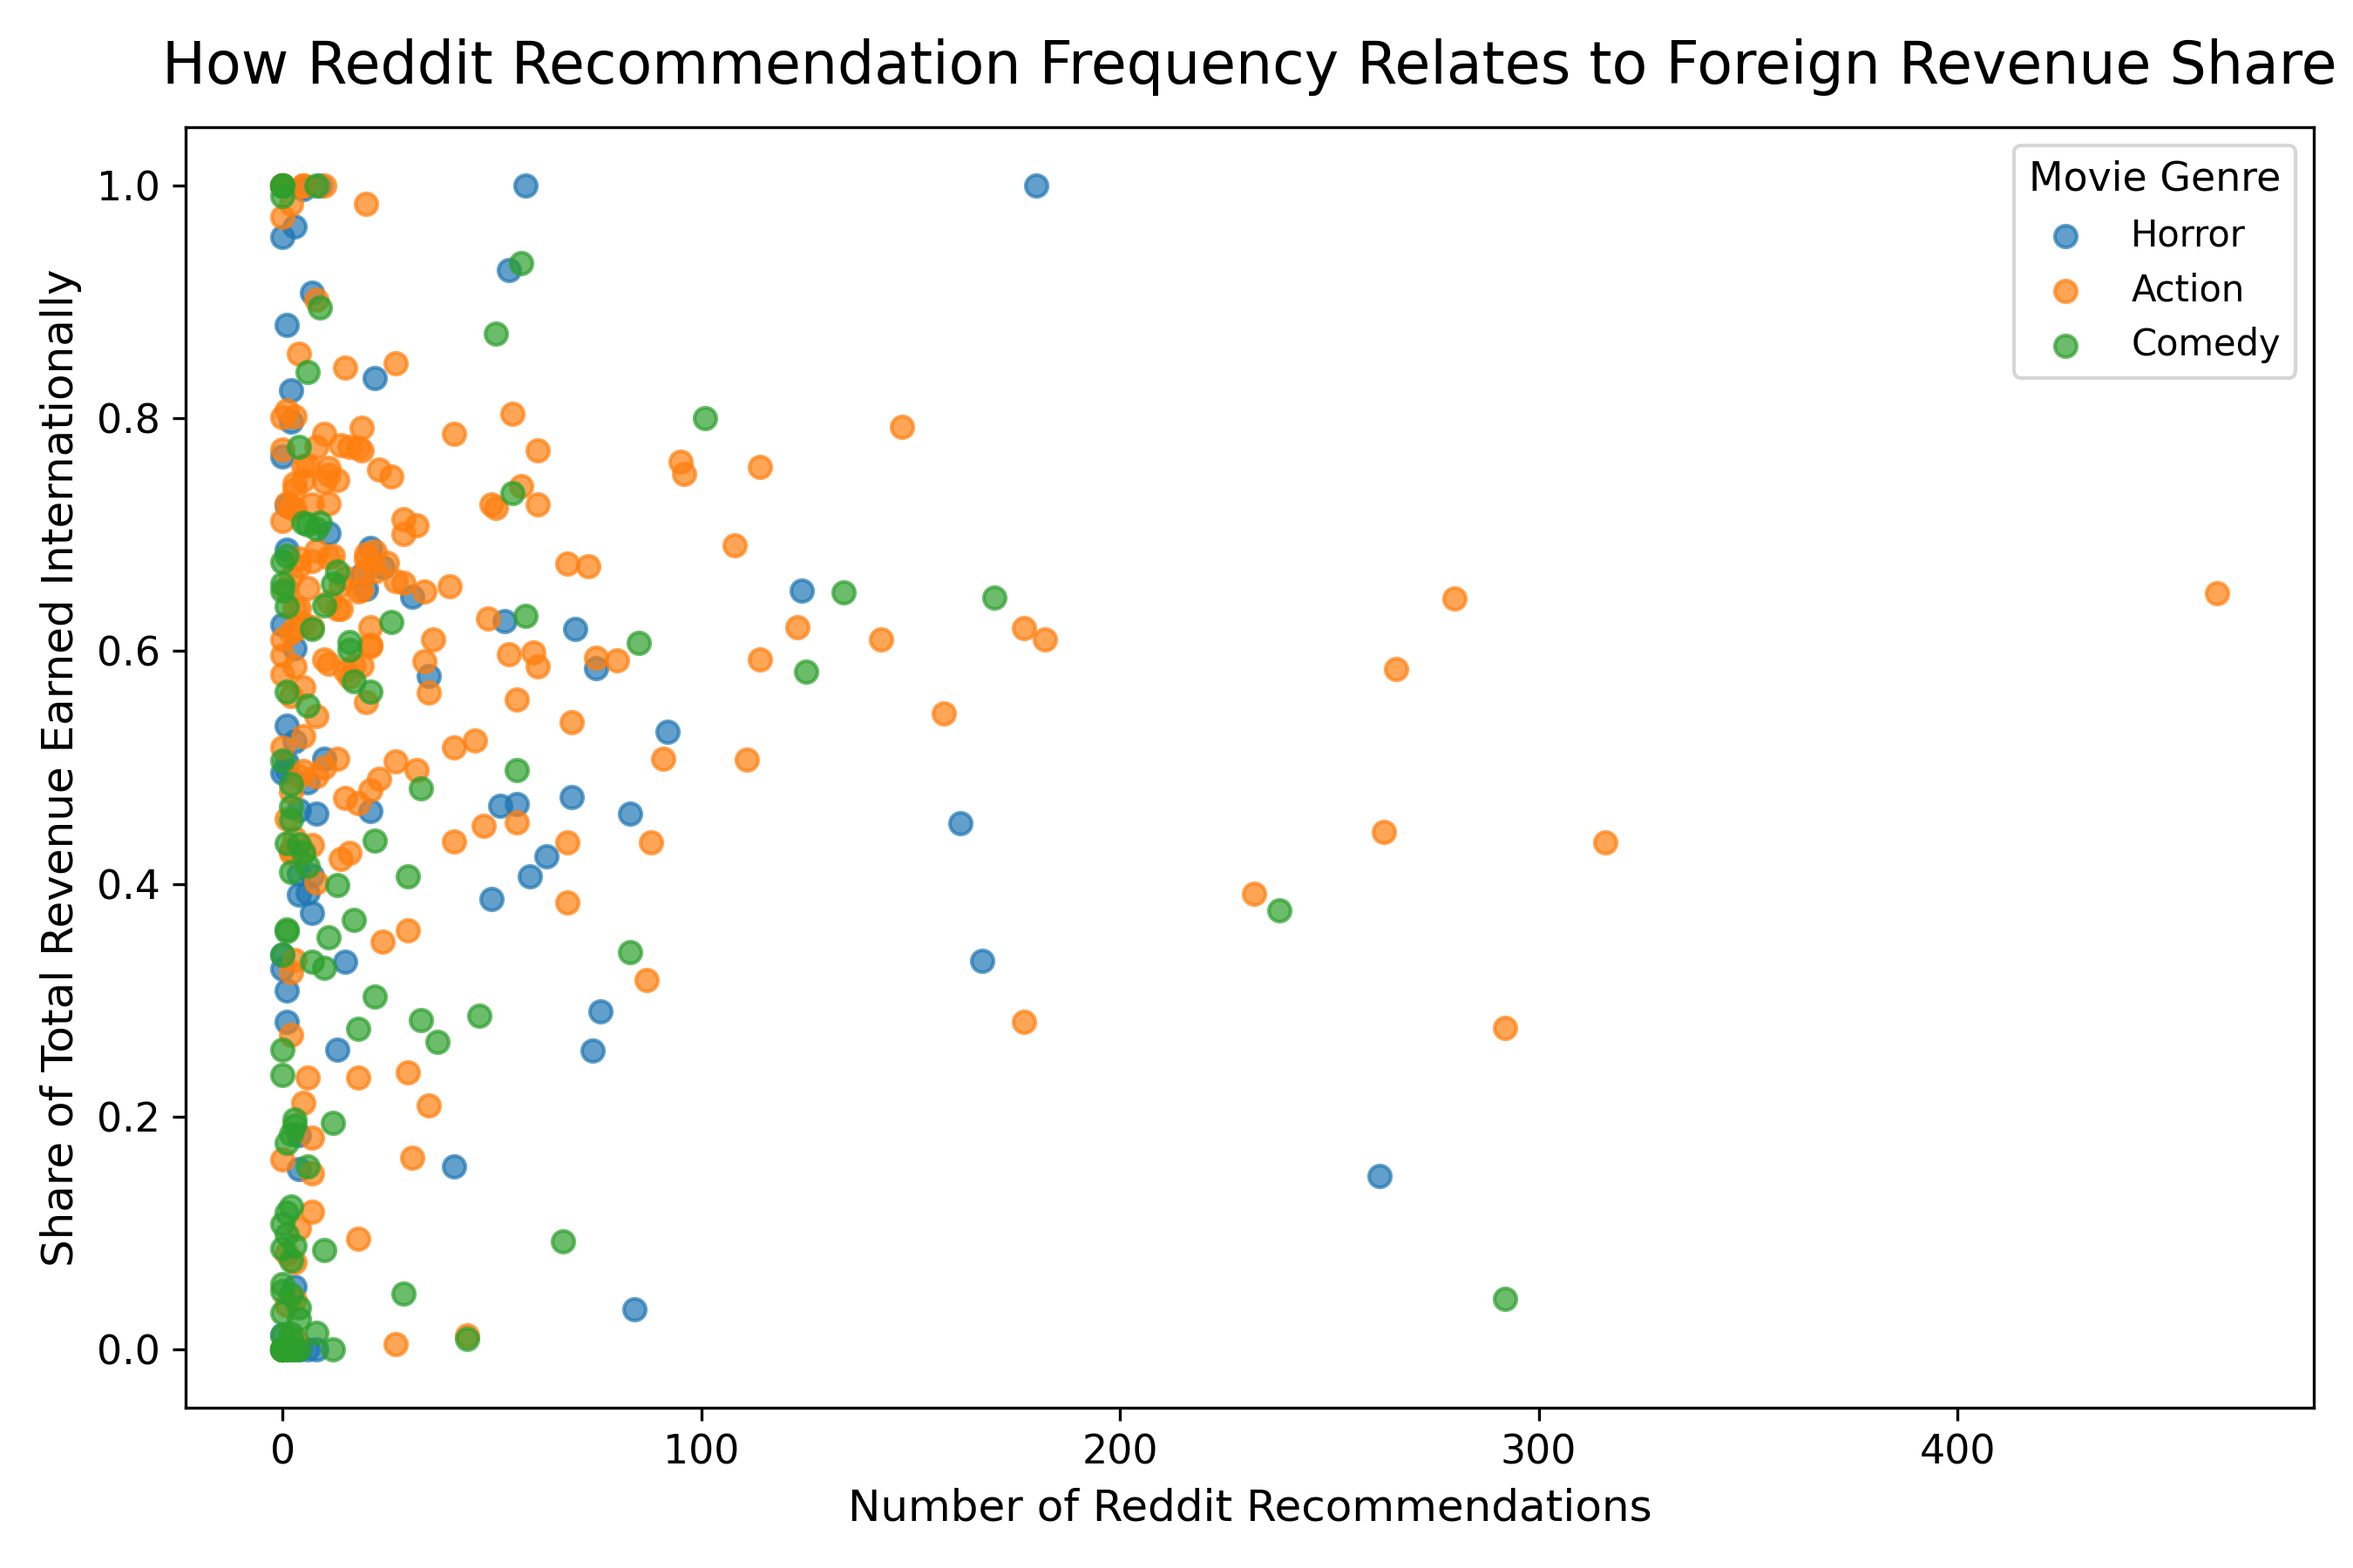
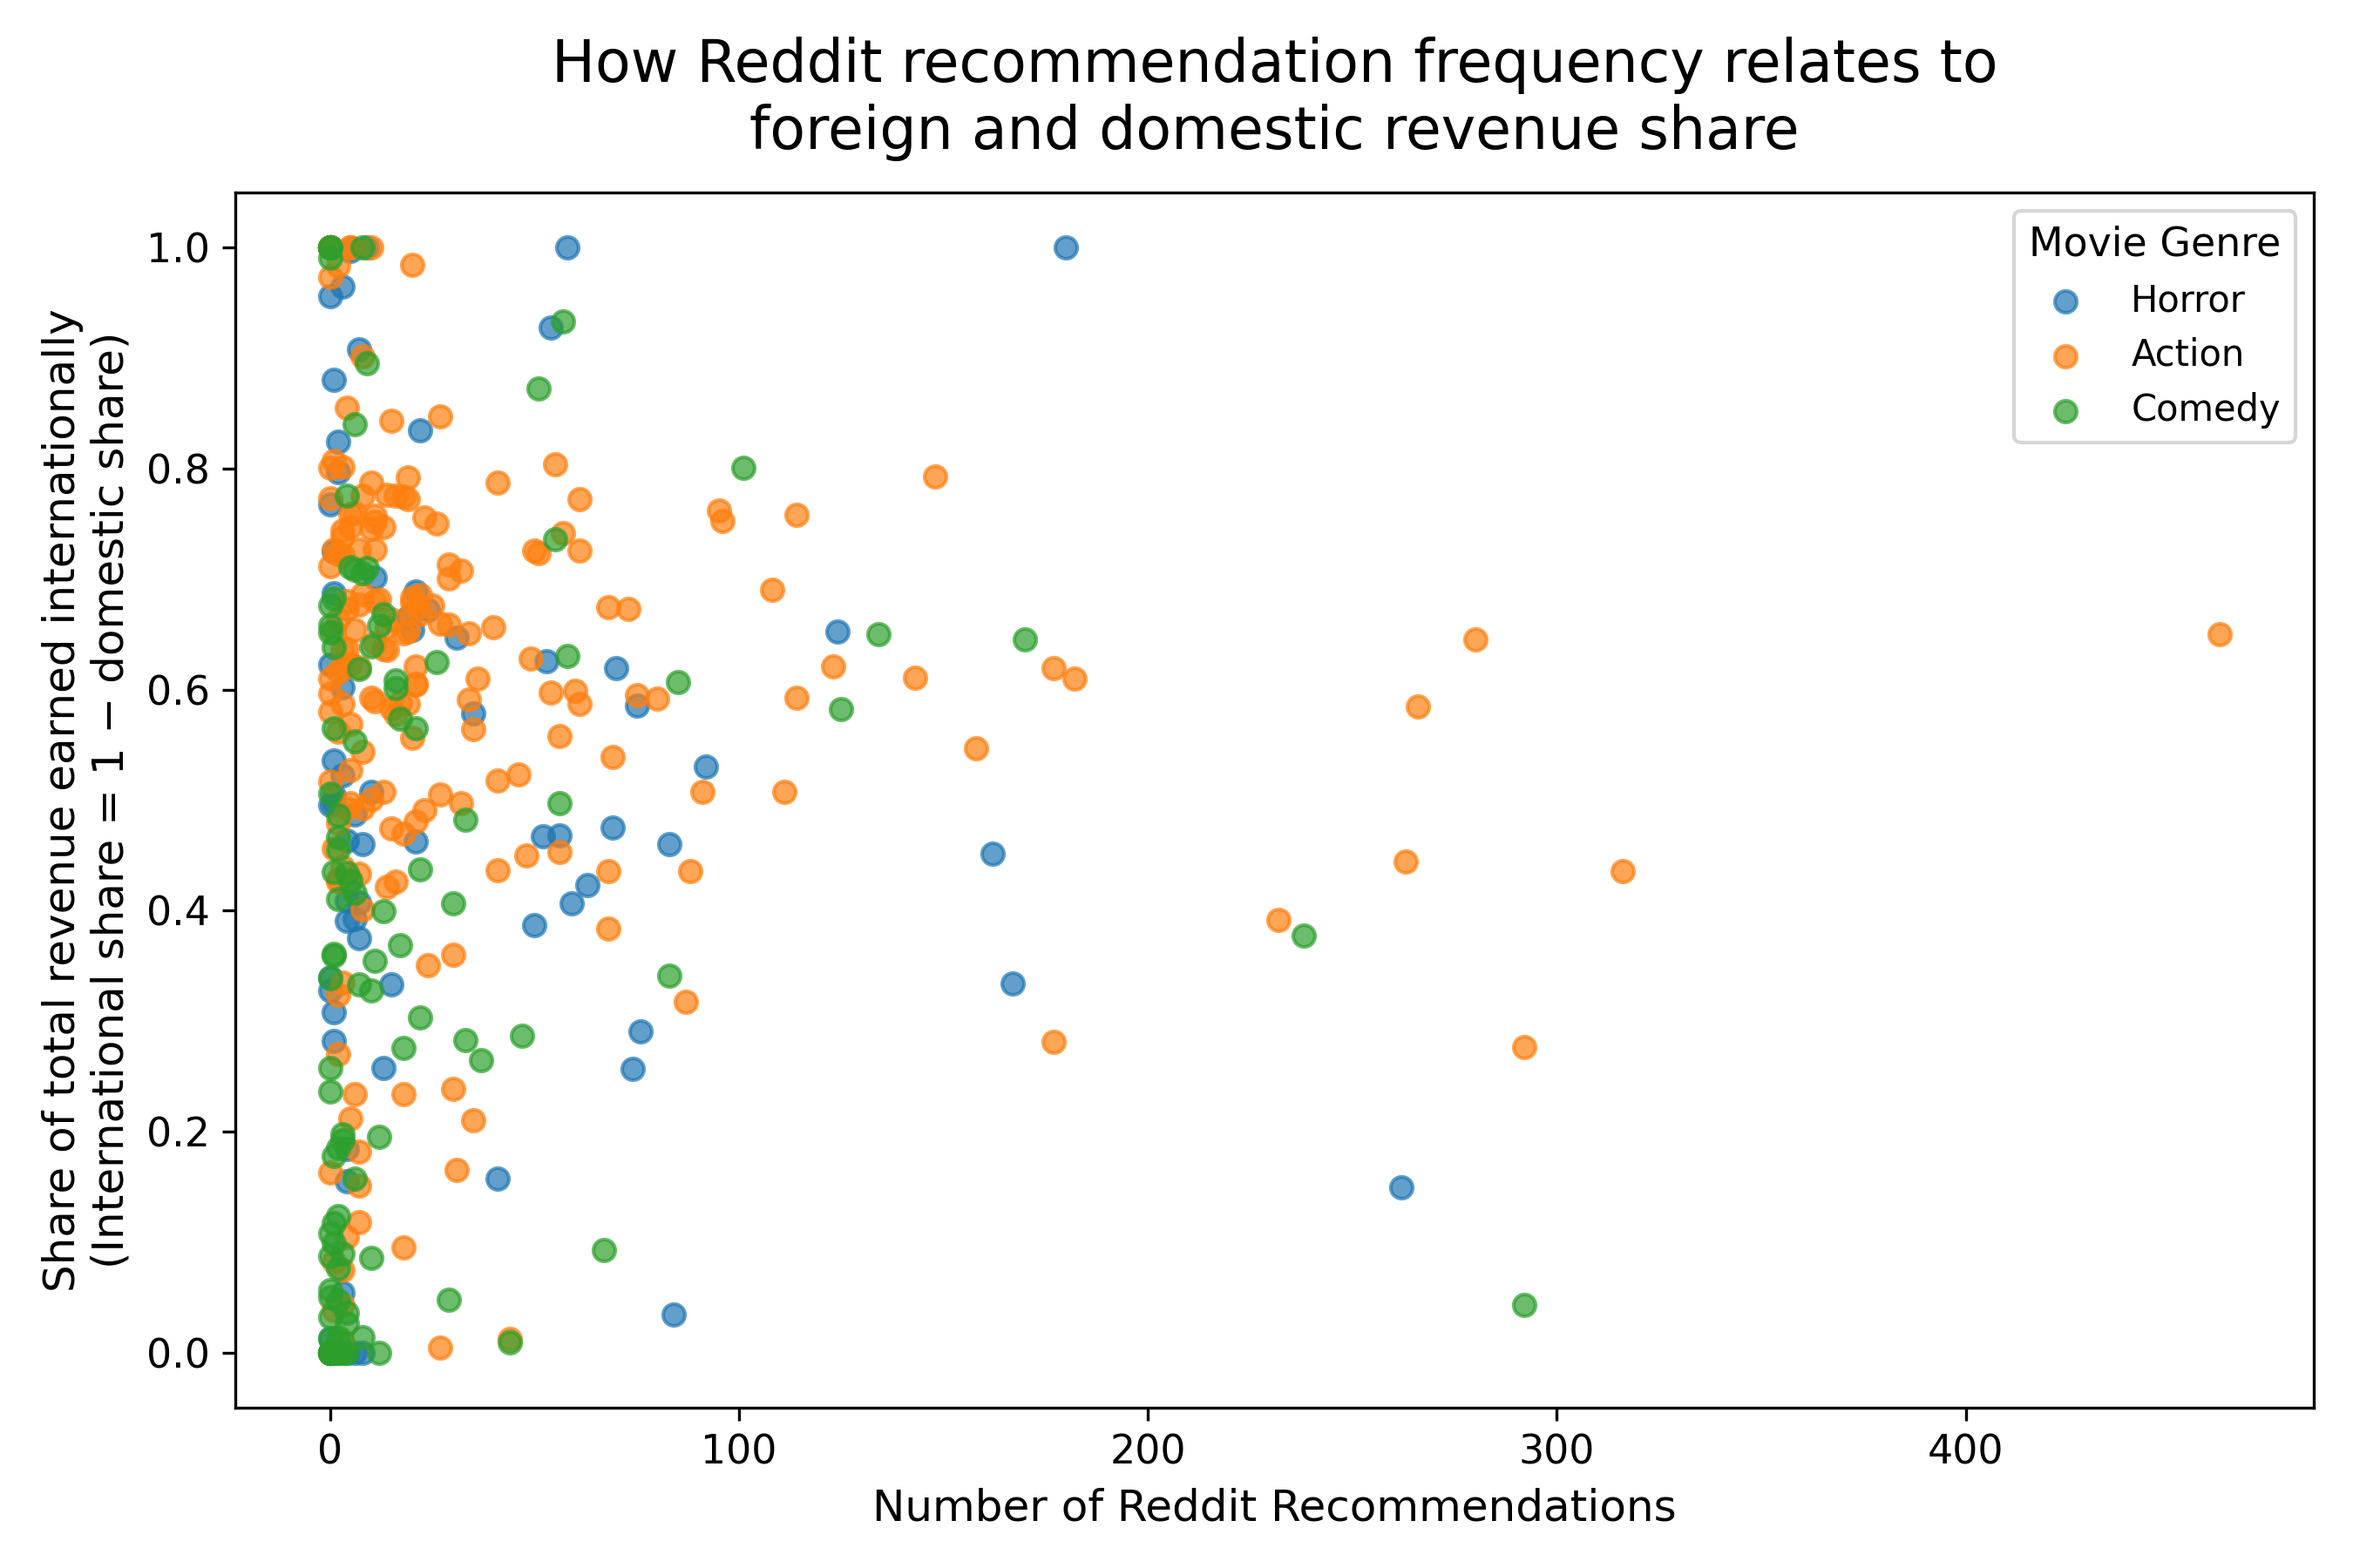
title edits

diff --git a/phase3_analysis.py b/phase3_analysis.py
@@ -176,10 +176,10 @@ def analyze_rq1(connection) -> pd.DataFrame:
 
     ax = plt.gca()
     format_axis_labels(
-        ax,
-        "How Reddit recommendation frequency relates to foreign and domestic revenue share",
-        "Number of Reddit Recommendations",
-        "Share of total revenue earned internationally (international revenue share = 1 - domestic revenue share)"
+    ax,
+    "How Reddit recommendation frequency relates to\nforeign and domestic revenue share",
+    "Number of Reddit Recommendations",
+    "Share of total revenue earned internationally\n(International share = 1 − domestic share)"
     )
 
     if plotted_any:
@@ -293,7 +293,7 @@ def analyze_rq2(connection) -> pd.DataFrame:
 
     format_axis_labels(
         ax,
-        "Correlation Between IMDb Rating, Reddit Discussion, and Total Box Office Gross",
+        "Correlation Between IMDb Rating,\nReddit Discussion, and Box Office Gross",
         "",
         ""
     )
